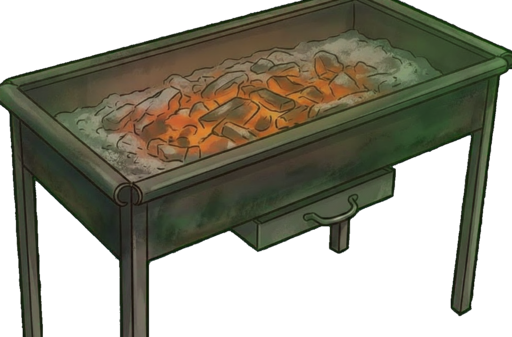
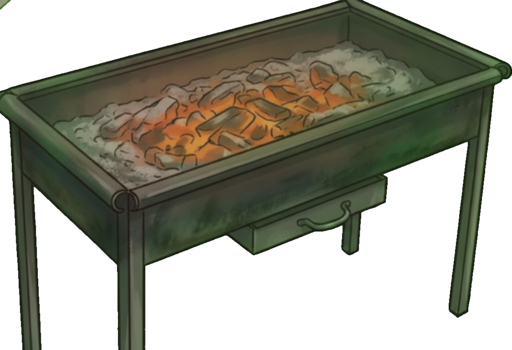
fix(kiyma): the grill's far corner, without redrawing the grill

diff --git a/apps/kiyma/tool/prepare_assets.py b/apps/kiyma/tool/prepare_assets.py
@@ -72,15 +72,6 @@ DROPPED_INGREDIENTS = {"maydanoz", "patlican"}
 # than the art the quad was measured on; the corners were re-derived by
 # mapping them through the ember bed in each image rather than by eye.
 RESIZED = {
-    "mangal_alani": {
-        "x": 51, "y": 390, "w": 208, "h": 130,
-        "quad": [[173.0, 390.2], [258.9, 447.6],
-                 [135.9, 520.0], [50.8, 443.3]],
-    },
-    # The chef stands at the grill, so he moves with it: left of centre his
-    # shoulders are under the highest part of the rim, which is what hides
-    # the rest of him.
-    "sef": {"x": 105, "y": 200, "w": 134, "h": 311},
     "kagit_kaynak": {
         "x": 528, "y": 396, "w": 118, "h": 52,
         "quad": [[528, 396], [645, 398], [646, 448], [529, 446]],
@@ -279,10 +270,11 @@ def customer_slots(regions):
     return out
 
 
-# The grill's top right corner was being sliced by the counter's own left
-# edge, which is a straight vertical line in the art: an object crossing it
-# reads as cut rather than as standing behind it. Moved left until it clears.
-LAYERS_MOVED = {"mangal_katman": {"x": 26}}
+# The grill's far corner ran off the edge of its own picture, so the art was
+# extended to complete it. The replacement is a different size, and this rect
+# is what puts its coal bed exactly where the old one's was — which is what
+# lets `mangal_alani` stay the quad it has always been.
+LAYERS_MOVED = {"mangal_katman": {"x": 48, "y": 351, "w": 266, "h": 326}}
 
 
 def slim_region(region):
